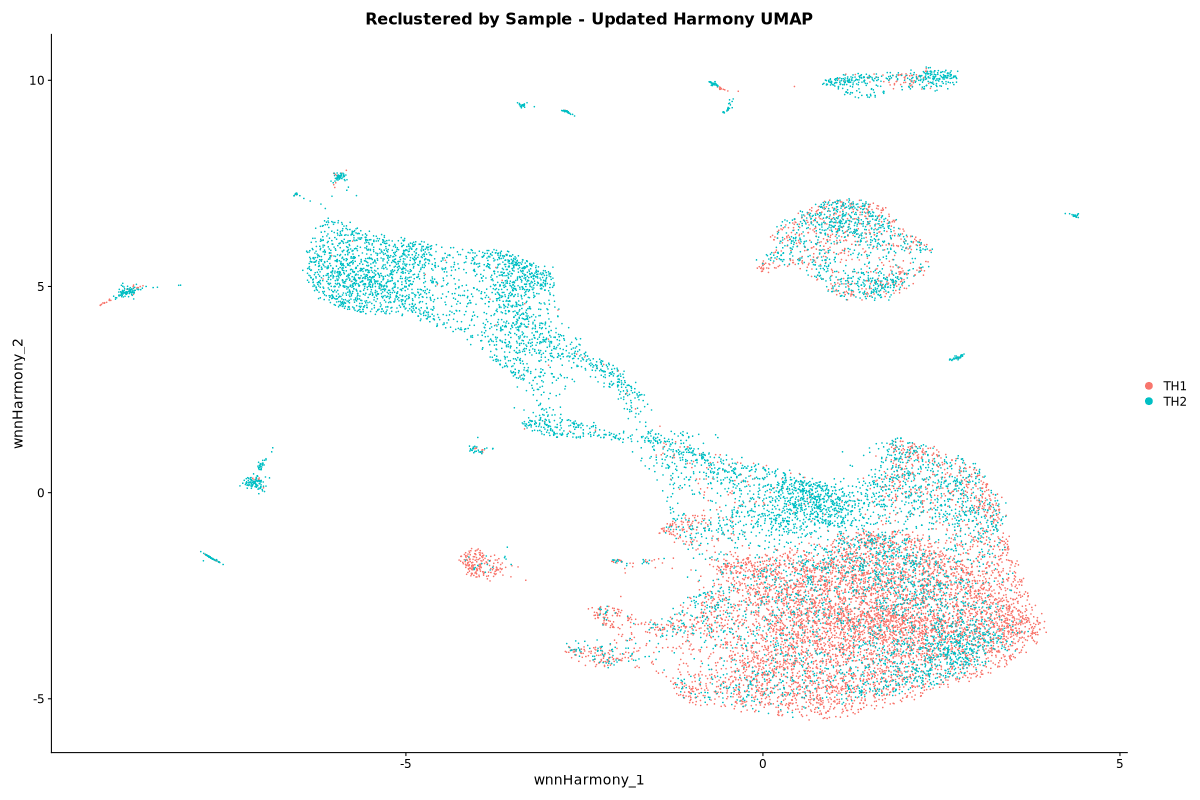
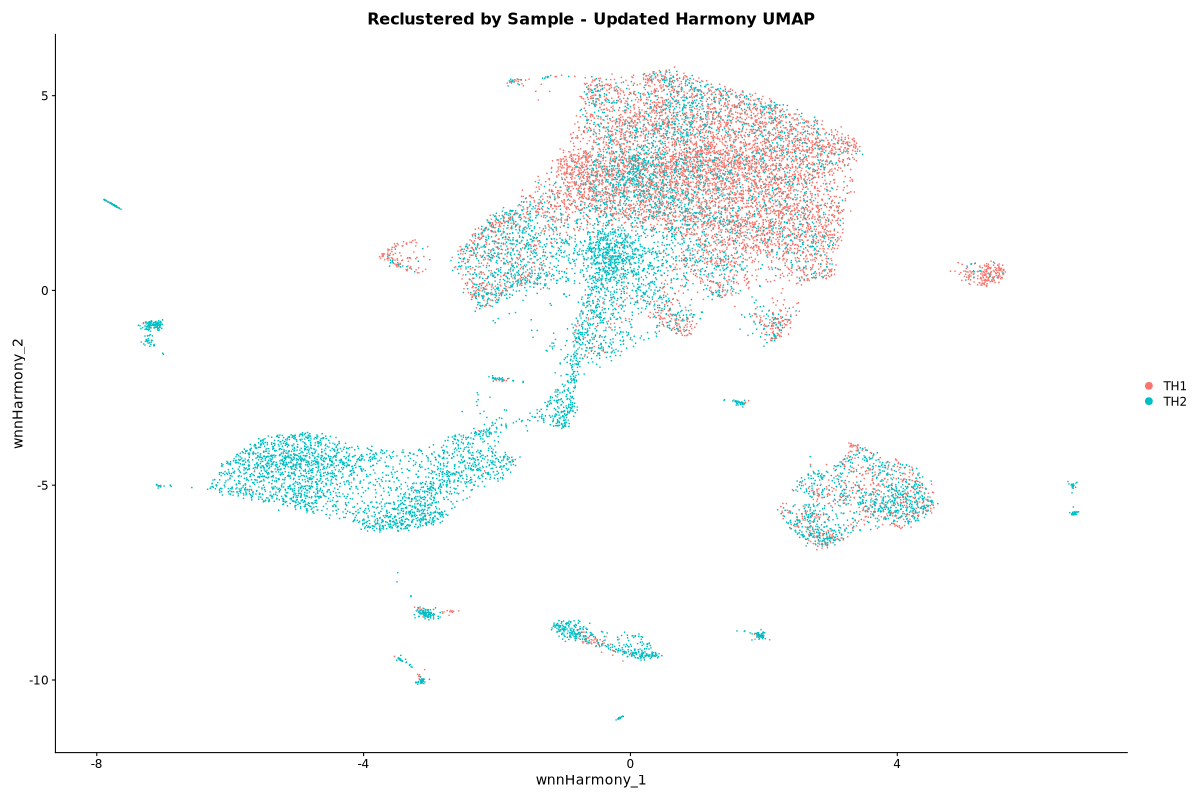
remove cluster 20 and recluster and plots

diff --git a/README.md b/README.md
@@ -42,13 +42,19 @@ Overexpression of stablized version of Neurog2
 ![Clusters harmony by sample](figures/cNeurog2_WNN_by_sample_harmony.png?v=3)
 
 
-## Remove cluster 11 and 19 and reCluster 
+## Remove cluster 11, 19, and 20 and reCluster 
 
 
-![reCluster by sample](figures/cNeurog2_Recluster_BySample.png?v=3)
+![reCluster by sample](figures/cNeurog2_Recluster_BySample.png?v=4)
 
-![reCluster by Clusters](figures/cNeurog2_Recluster_Clusters.png?v=3)
+![reCluster by Clusters](figures/cNeurog2_Recluster_Clusters.png?v=4)
 
+
+
+### UMI per cluster for investigating poor cells
+
+
+![](figures/cNeurog2_UMI_Violin_HarmonyWNN.png?v=1)
 
 ## Marker Genes feature  plots
 
@@ -121,6 +127,13 @@ Overexpression of stablized version of Neurog2
 
 
 ## Top Differential Peaks after annotation (nearby Genes)
+
+#### Starting with: 
+
+| Metric          | Count   |
+|-----------------|---------|
+| Number of cells | 17,360  |
+| Number of genes | 213,119 |
 
 
 ![](figures/TopPeaks.png?v=2)
